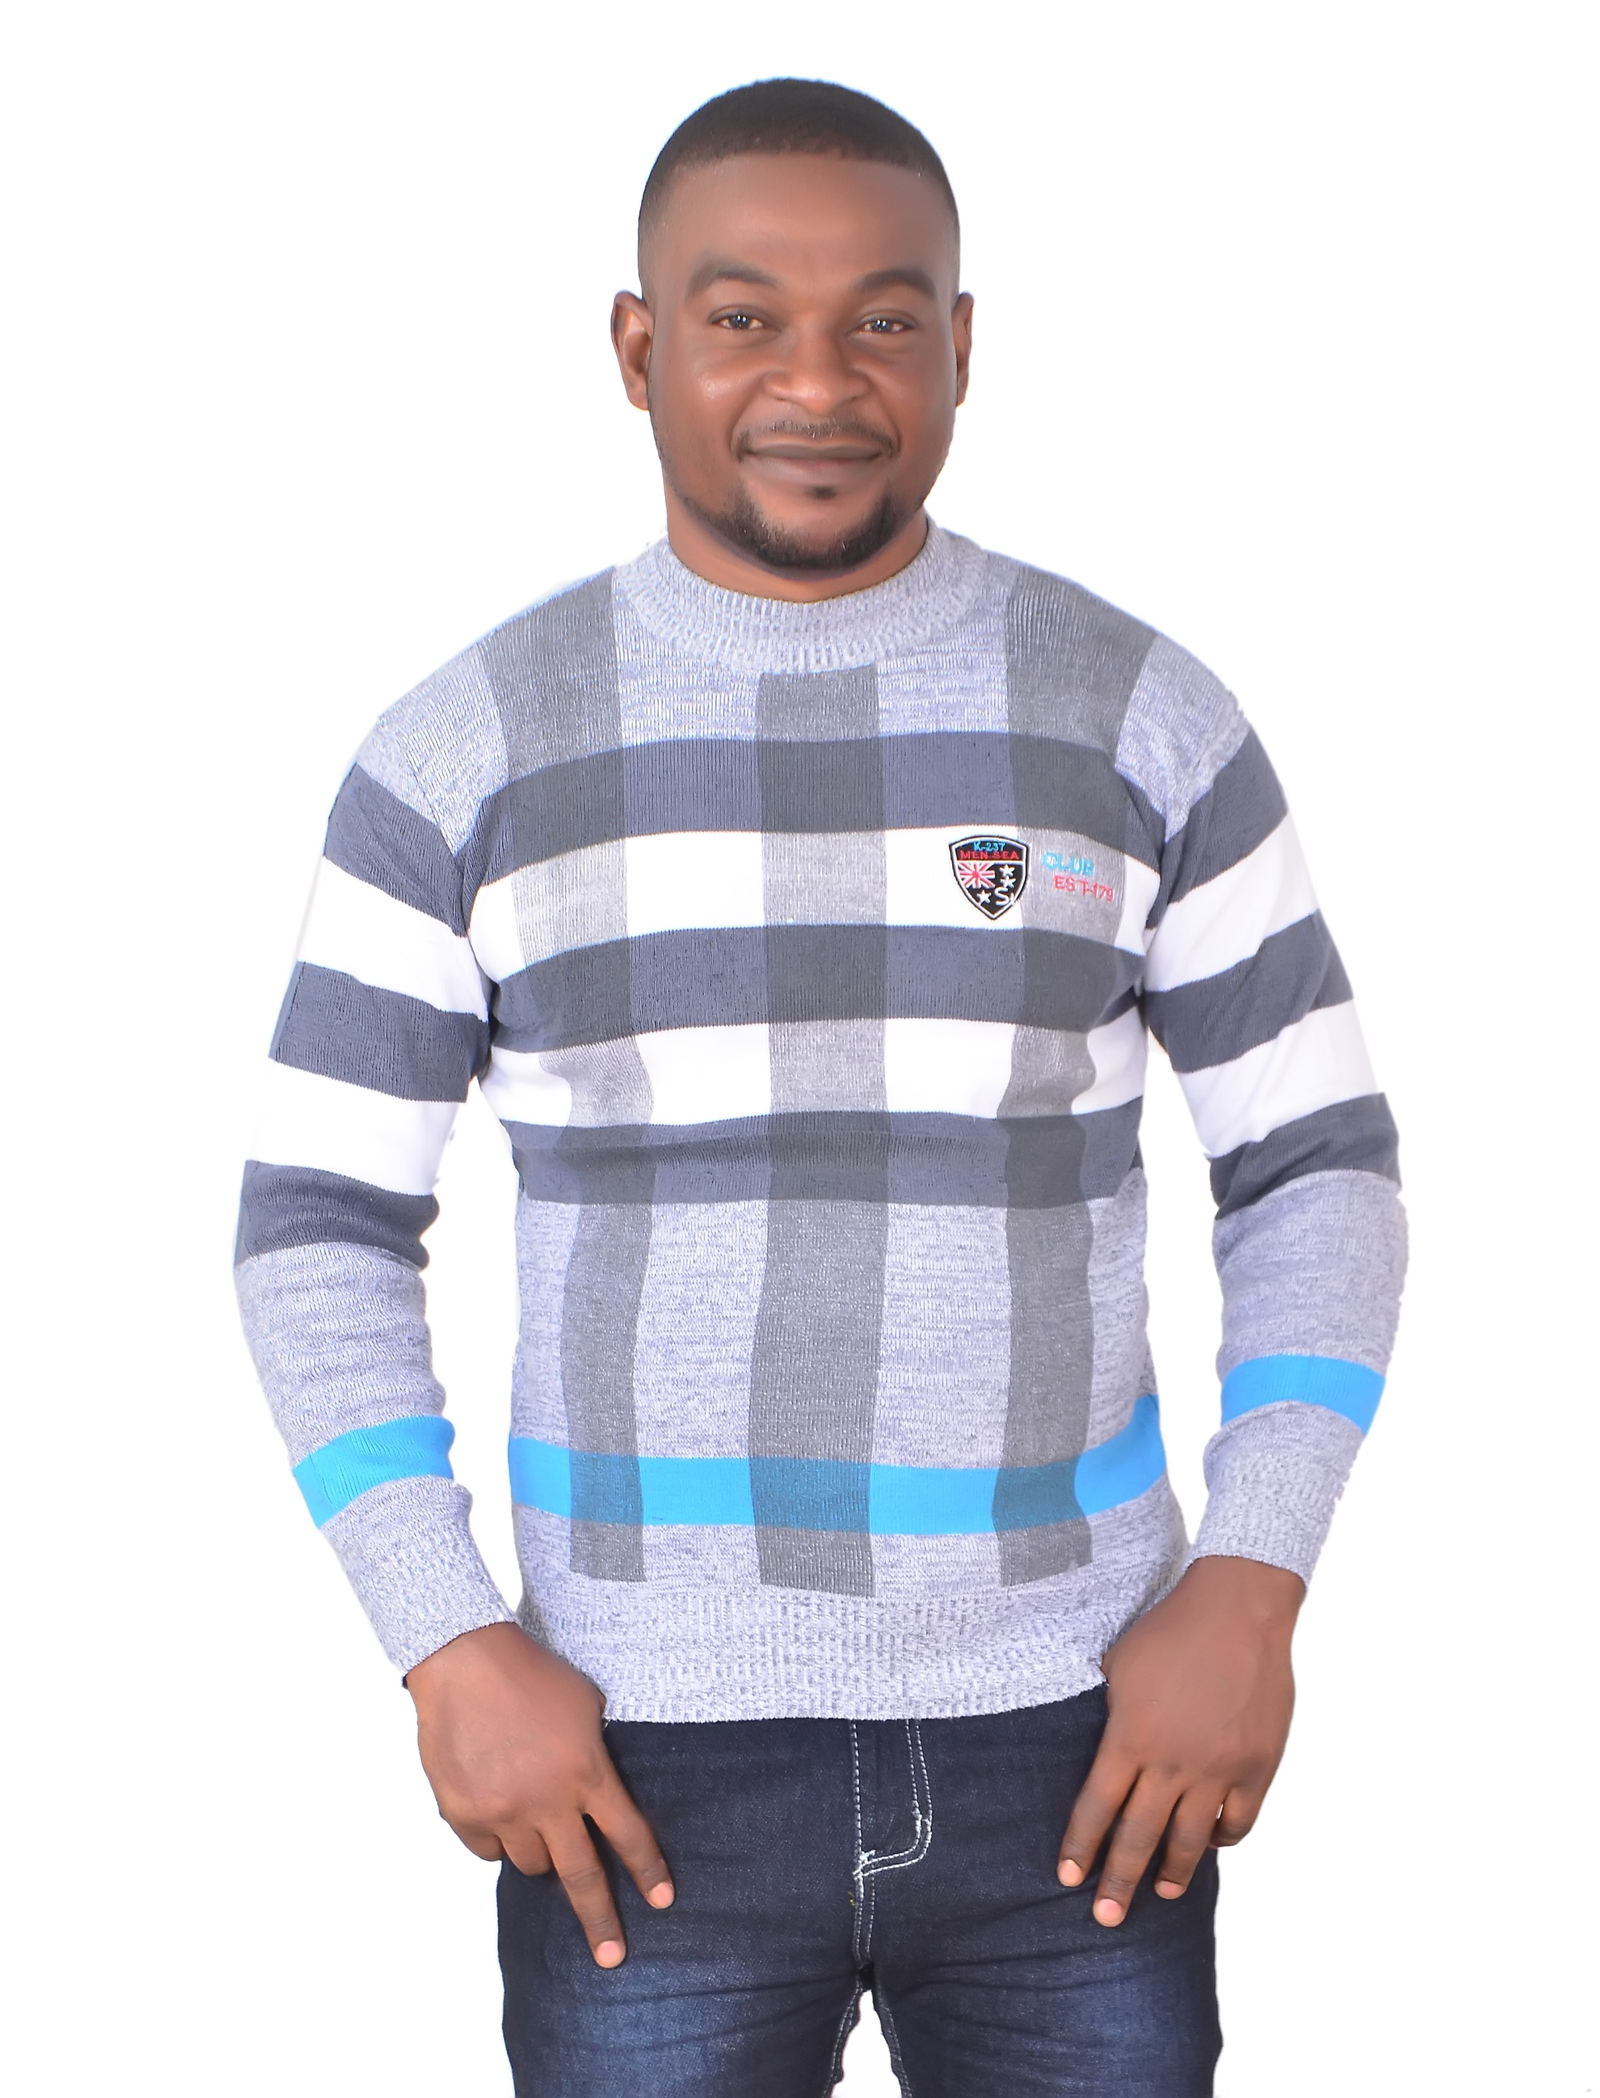
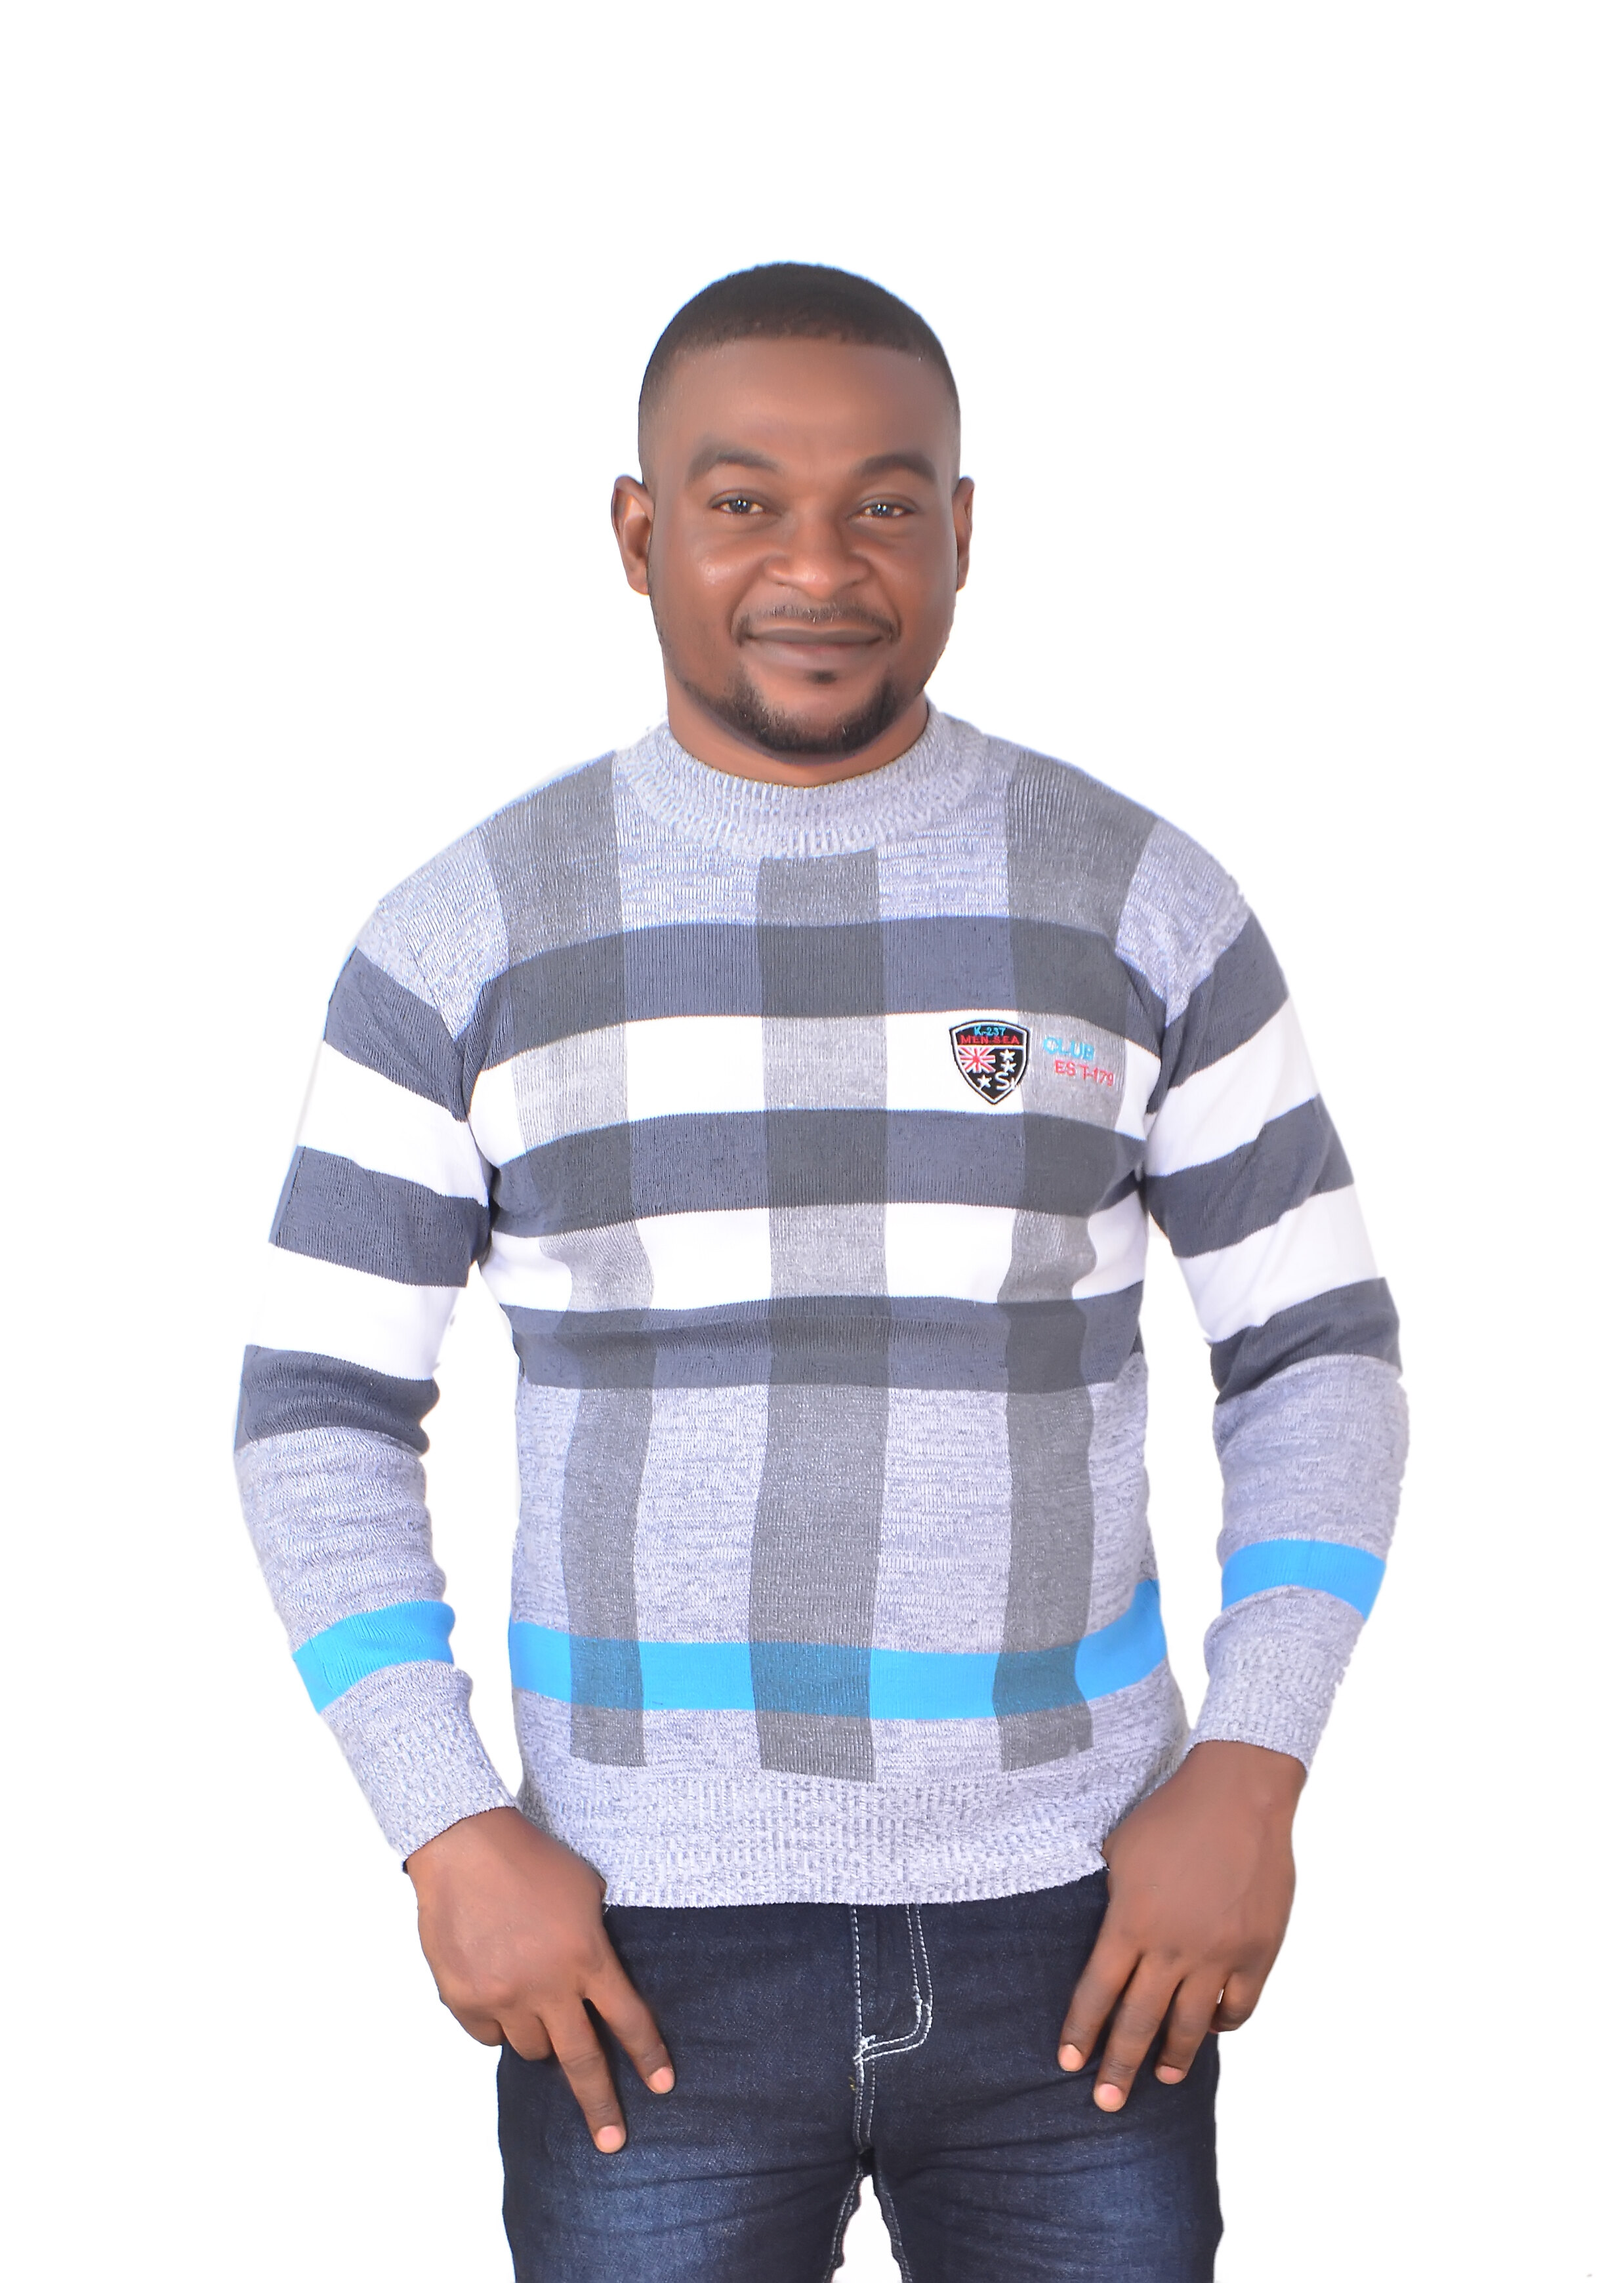
change profile image to a smaller size

diff --git a/index.html b/index.html
@@ -20,7 +20,7 @@
   rel="stylesheet"
   href="https://cdn.jsdelivr.net/npm/swiper@11/swiper-bundle.min.css"
 />
-<link rel="stylesheet" href="https://unpkg.com/swiper/swiper-bundle.min.css">
+
     <!-- STYLESHEET -->
     <link rel="stylesheet" href="style.css">
 
@@ -71,7 +71,7 @@
                     <svg xmlns="http://www.w3.org/2000/svg" height="24" viewBox="0 -960 960 960" width="24"><path d="M480-80q-82 0-155-31.5t-127.5-86Q143-252 111.5-325T80-480q0-83 31.5-155.5t86-127Q252-817 325-848.5T480-880q83 0 155.5 31.5t127 86q54.5 54.5 86 127T880-480q0 82-31.5 155t-86 127.5q-54.5 54.5-127 86T480-80Zm0-82q26-36 45-75t31-83H404q12 44 31 83t45 75Zm-104-16q-18-33-31.5-68.5T322-320H204q29 50 72.5 87t99.5 55Zm208 0q56-18 99.5-55t72.5-87H638q-9 38-22.5 73.5T584-178ZM170-400h136q-3-20-4.5-39.5T300-480q0-21 1.5-40.5T306-560H170q-5 20-7.5 39.5T160-480q0 21 2.5 40.5T170-400Zm216 0h188q3-20 4.5-39.5T580-480q0-21-1.5-40.5T574-560H386q-3 20-4.5 39.5T380-480q0 21 1.5 40.5T386-400Zm268 0h136q5-20 7.5-39.5T800-480q0-21-2.5-40.5T790-560H654q3 20 4.5 39.5T660-480q0 21-1.5 40.5T654-400Zm-16-240h118q-29-50-72.5-87T584-782q18 33 31.5 68.5T638-640Zm-234 0h152q-12-44-31-83t-45-75q-26 36-45 75t-31 83Zm-200 0h118q9-38 22.5-73.5T376-782q-56 18-99.5 55T204-640Z"/></svg>
                 </div>
                 <div class="inner-circle">
-                    <img src="images/profile.JPG">
+                    <img src="images/profile.jpg">
                 </div>
             
 
@@ -86,7 +86,7 @@
         <h1>About</h1>
         <div class="container">
             <div class="image-wrapper">
-                <img src="images/profile.JPG" >
+                <img src="images/profile.jpg" >
             </div>
             <div class="info">
                 <p>As a web developer, I'm driven by a passion for creating efficient and scalable digital experiences. With several years of hands-on experience and with a keen eye for detail, I specialize in building dynamic, responsive, and user-friendly websites. 
@@ -304,7 +304,7 @@
                     <div class="head">
                         <div class="profile-area">
                             <div class="avatar">
-                                <img src="images/bammy.JPG" alt="My image">
+                                <img src="images/bammy.jpg" alt="My image">
                             </div>
                             <div class="info">
                                 <h4>Bammy</h4>
@@ -332,7 +332,7 @@
                     <div class="head">
                         <div class="profile-area">
                             <div class="avatar">
-                                <img src="images/yayi.JPG" alt="My image">
+                                <img src="images/yayi.jpg" alt="My image">
                             </div>
                             <div class="info">
                                 <h4>Yayi</h4>
@@ -376,7 +376,7 @@
                         </div>
                     </div>
                     <p>
-                        Working with Ben was a pleasure! H brought our vision to life with fis exceptional web development skills. The final product exceeded our expectations.- Beata S., Client
+                        Working with Ben was a pleasure! He brought our vision to life with his exceptional web development skills. The final product exceeded our expectations.- Beata S., Client
 
                     </p>
                 </div>

diff --git a/style.css b/style.css
@@ -932,11 +932,13 @@ footer .copyright {
     /* ABOUT SECTION */
 
     section.about .container {
+
         display: grid;
         grid-template-columns: 1fr;
         place-items: center;;
         gap: 1rem;
         text-align: center;
+        
 
     }
 
